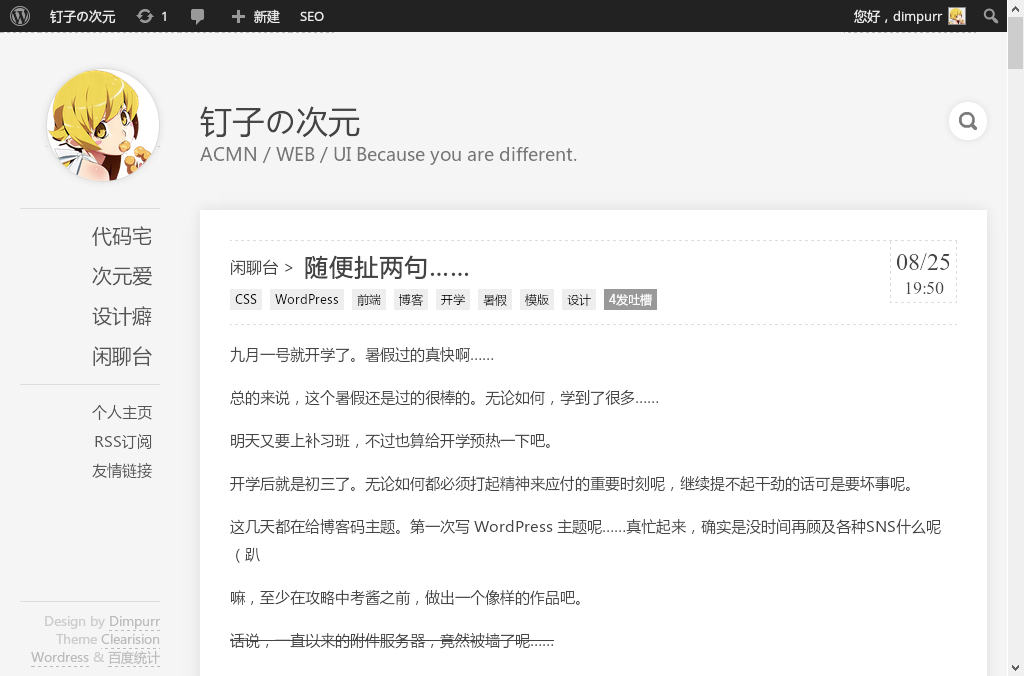
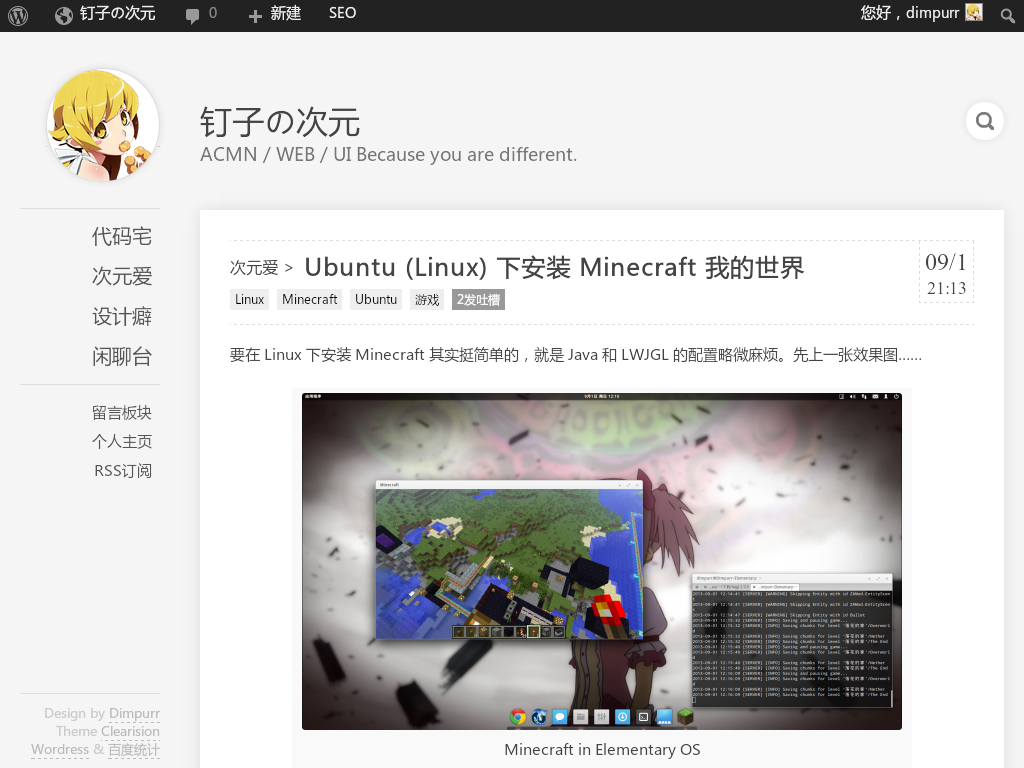
V0.32 更新截图和修正
* 新的后台预览截图
* 移动端测试通过
* 在线测试通过

diff --git a/style.css b/style.css
@@ -1,7 +1,7 @@
 /*
 Theme Name: Clearision
 Theme URI: http://blog.dimpurr.com
-Version: 0.3
+Version: 0.32
 Author: Dimpurr
 Author URI: http://dimpurr.com
 Description: A HTML5 grey and one column WordPress theme.

diff --git a/functions.php b/functions.php
@@ -18,8 +18,9 @@ function clrs_config(){ ?>
 	<br><h3>LOGO头像：</h3>
 	<input type="text" size="80" name="clrs_logo" id="clrs_logo" placeholder="粘贴链接或点击上传" value="<?php echo get_option('clrs_logo'); ?>"/>
 	<input type="button" name="upload_button" value="上传" id="upbottom"/><br>
+	<p>默认值：http://blog.dimpurr.com/wp-content/themes/clearision/img/logo.png</p>
 
-	<br><img src="<?php echo get_option('clrs_logo'); ?>" style="max-width: 114px; -webkit-border-radius: 500px; -moz-border-radius: 500px; border-radius: 500px;" />
+	<img src="<?php echo get_option('clrs_logo'); ?>" style="max-width: 114px; -webkit-border-radius: 500px; -moz-border-radius: 500px; border-radius: 500px;" />
 
 	<?php wp_enqueue_script('thickbox'); wp_enqueue_style('thickbox'); ?>
 	<script type="text/javascript">
@@ -56,9 +57,6 @@ add_action('admin_menu', 'clrs_menu_function');
 if(isset($_POST['option_save'])){
 	$clrs_tongji = stripslashes($_POST['clrs_tongji']);
 	update_option( 'clrs_tongji', $clrs_tongji );
-}
-
-if(isset($_POST['option_save'])){
 	$clrs_logo = stripslashes($_POST['clrs_logo']);
 	update_option( 'clrs_logo', $clrs_logo );
 }

diff --git a/header.php b/header.php
@@ -50,7 +50,7 @@
 
 <div id="float" >
 
-<a href="<?php echo esc_url( home_url( '/' ) ); ?>" title="<?php echo esc_attr( get_bloginfo( 'name', 'display' ) ); ?>" rel="home"><img id="logo" alt="Dimpurr" title="Dimpurr" src="<?php echo get_template_directory_uri(); ?>/img/logo.png" ></a>
+<a href="<?php echo esc_url( home_url( '/' ) ); ?>" title="<?php echo esc_attr( get_bloginfo( 'name', 'display' ) ); ?>" rel="home"><img id="logo" alt="Dimpurr" title="Dimpurr" src="<?php echo get_option('clrs_logo'); ?>" ></a>
 
 <nav id="nav" role="navigation">
 	<?php wp_nav_menu( array( 'theme_location' => 'main' ) ); ?>
